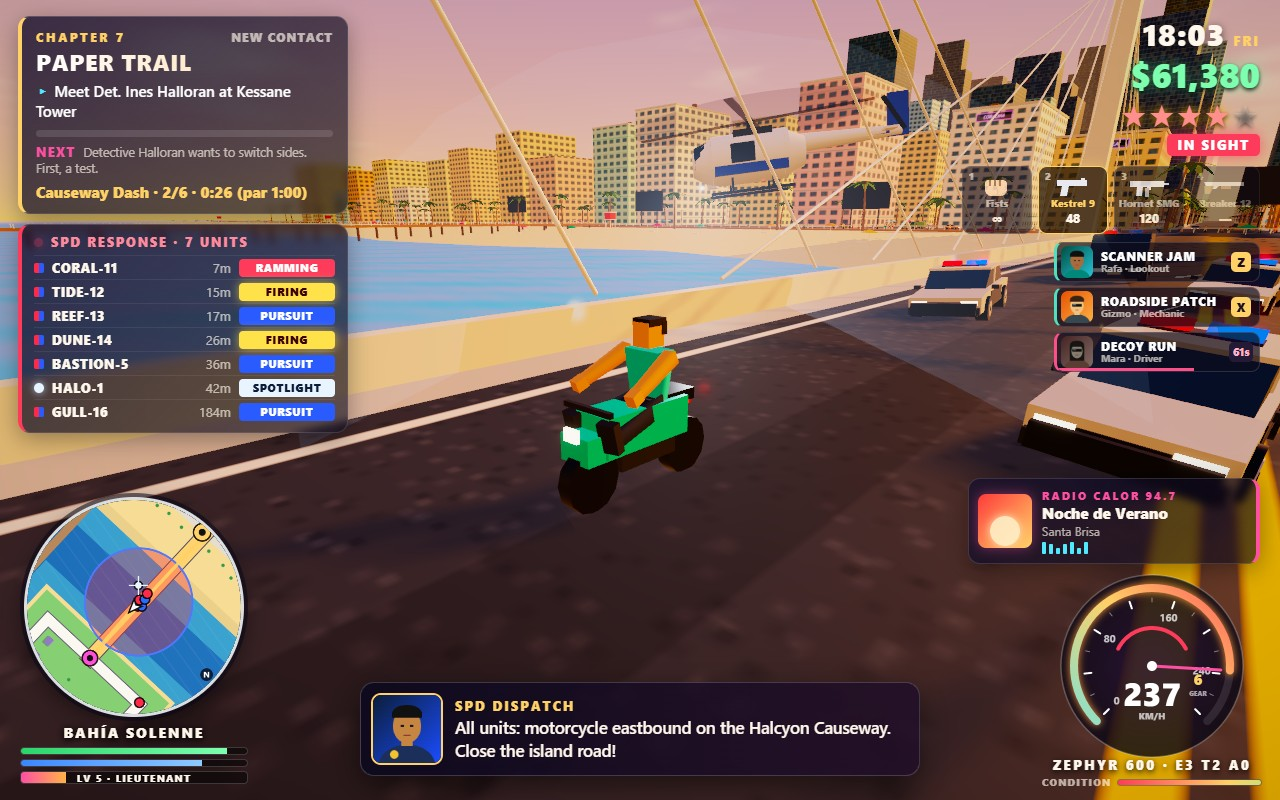
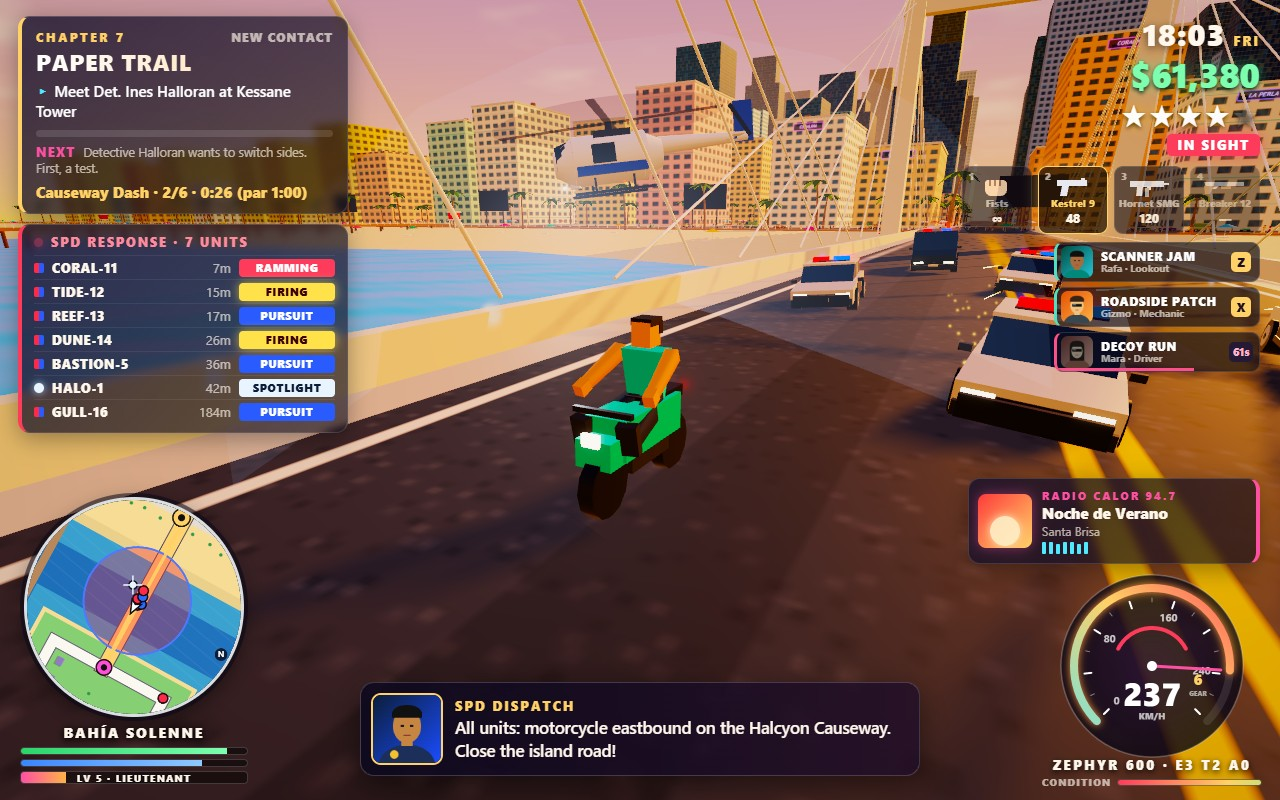
Cover: burning wreck a block ahead; richer grade; causeway framed on the pack and the bay

diff --git a/game/src/shots/screenshotDirector.js b/game/src/shots/screenshotDirector.js
@@ -106,6 +106,9 @@ const SCENES = {
     for (const c of game.vehicles.list.slice()) if (c !== v && Math.abs(c.body.x - 500) < 12 && c.body.z < -70 && c.body.z > -300) game.vehicles.remove(c);
     for (let k = 0; k < 4; k += 1) addUnit(game, 'patrol', 500, -50 + k * 8, heading, 36);
     game.police.heli.activate(game.player.x, game.player.z);
+    // a wreck burning in the southbound lane a block ahead (it went up a moment before)
+    const wreck = game.vehicles.spawn('sedan', 499, -88 - 118, 0.9, { role: 'parked', paint: 0x3a3a44 });
+    game.vehicles.explode(wreck);
     game.autopilot = (() => { const steer = laneAutopilot(v, null, heading); return () => { steer(); v.body.x += (505 - v.body.x) * 0.1; }; })();
     simulate(game, 1.4);
     game.autopilot = null;
@@ -115,11 +118,8 @@ const SCENES = {
     // civilian traffic clears out of the pursuit's way
     for (const c of game.vehicles.list.slice()) {
       const along = (c.body.z - pb.z) * Math.cos(pb.heading) + (c.body.x - pb.x) * Math.sin(pb.heading);
-      if (c !== v && c.role !== 'police' && Math.abs(c.body.x - 500) < 14 && along > -20 && along < 60) game.vehicles.remove(c);
+      if (c !== v && !c.dead && c.role !== 'police' && Math.abs(c.body.x - 500) < 14 && along > -20 && along < 60) game.vehicles.remove(c);
     }
-    // a burning wreck at the causeway junction ahead, past the roadblock
-    const wreck = game.vehicles.spawn('sedan', 497, pb.z - 118, 0.9, { role: 'parked', paint: 0x3a3a44 });
-    game.vehicles.explode(wreck);
     game.police.setWanted(3);
     game.police.placeRoadblock();
     // the pack, flanking the Vireo: [ahead, right of it, turn, status]
@@ -327,7 +327,7 @@ const SCENES = {
     heli.aim.set(pb.x - 1, 0, pb.z);
     heli.update(0, { x: pb.x, z: pb.z });
     game.player.seatRider(bike);
-    game.cameraRig.yaw = pb.heading + 0.75;
+    game.cameraRig.yaw = pb.heading + 0.5;
     game.cameraRig.pitch = 0.2;
     game.cameraRig.orbitIdle = -10;
     for (let i = 0; i < 30; i += 1) game.cameraRig.update(STEP, { vehicle: bike, position: game.player.figure });

diff --git a/game/src/render/particleEffects.js b/game/src/render/particleEffects.js
@@ -132,8 +132,8 @@ export class ParticleEffects {
     this.soft.emit(x + this.r(0.4), 0.3, z + this.r(0.4), this.r(1), 0.5, this.r(1), 0xd9c7a0, 0.8, 0.7, 1.4);
   }
 
-  fire(x, y, z) {
-    this.hot.emit(x + this.r(0.5), y, z + this.r(0.5), this.r(0.4), 2 + this.rng() * 2, this.r(0.4), this.rng() < 0.5 ? 0xff5a10 : 0xffa020, 1.1, 0.45 + this.rng() * 0.25, -1.2);
+  fire(x, y, z, size = 1.1) {
+    this.hot.emit(x + this.r(0.5), y, z + this.r(0.5), this.r(0.4), 2 + this.rng() * 2, this.r(0.4), this.rng() < 0.5 ? 0xff5a10 : 0xffa020, size, 0.45 + this.rng() * 0.25, -1.2);
   }
 
   sparks(x, y, z, count = 14) {

diff --git a/game/src/render/postEffects.js b/game/src/render/postEffects.js
@@ -72,7 +72,7 @@ export class PostEffects {
     this.composite = this.material(COMPOSITE_FRAG, {
       scene: { value: null }, bloomA: { value: null }, bloomB: { value: null },
       bloomStrength: { value: 0.8 }, exposure: { value: 1.0 }, grade: { value: new THREE.Vector3(1, 1, 1) },
-      vignette: { value: 0.5 }, saturation: { value: 1.2 }, contrast: { value: 0.22 }, flash: { value: 0 },
+      vignette: { value: 0.5 }, saturation: { value: 1.32 }, contrast: { value: 0.26 }, flash: { value: 0 },
     });
     this.enabled = true;
   }

diff --git a/game/src/vehicles/vehicleManager.js b/game/src/vehicles/vehicleManager.js
@@ -122,7 +122,7 @@ export class VehicleManager {
     v.smokeTimer -= dt;
     if (v.smokeTimer > 0) return;
     v.smokeTimer = 0.07;
-    this.game.particles.fire(v.body.x, v.body.y + 1.2, v.body.z);
+    this.game.particles.fire(v.body.x, v.body.y + 1.2, v.body.z, 1.7);
     this.game.particles.smoke(v.body.x, v.body.y + 2, v.body.z, 0x222222, 2);
   }
 
